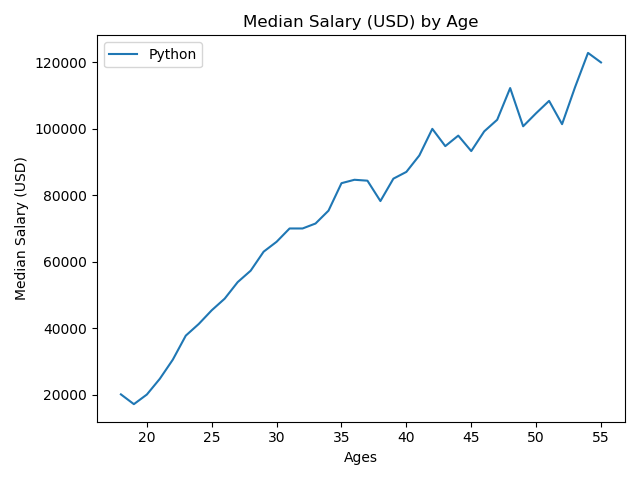
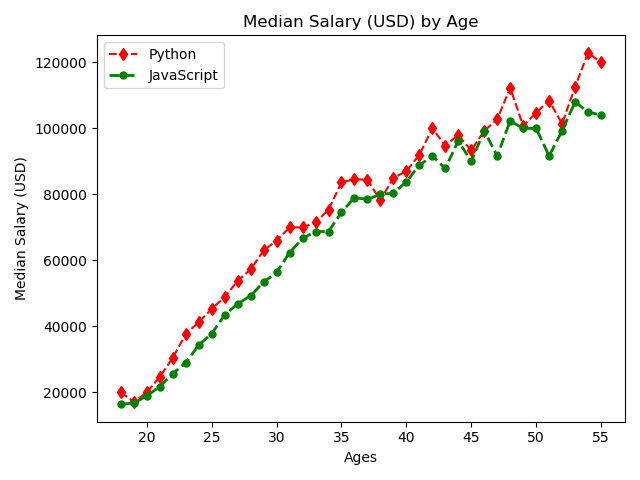
format string and standard plot used

diff --git a/matplotlib_pg.py b/matplotlib_pg.py
@@ -4,12 +4,22 @@ def main():
     # plt.xkcd()
 
     ages_x = [18, 19, 20, 21, 22, 23, 24, 25, 26, 27, 28, 29, 30, 31, 32, 33, 34, 35,
-            36, 37, 38, 39, 40, 41, 42, 43, 44, 45, 46, 47, 48, 49, 50, 51, 52, 53, 54, 55]
+                36, 37, 38, 39, 40, 41, 42, 43, 44, 45, 46, 47, 48, 49, 50, 51, 52, 53, 54, 55]
 
-    py_dev_y = [20046, 17100, 20000, 24744, 30500, 37732, 41247, 45372, 48876, 53850, 57287, 63016, 65998, 70003, 70000, 71496, 75370, 83640, 84666,
-                84392, 78254, 85000, 87038, 91991, 100000, 94796, 97962, 93302, 99240, 102736, 112285, 100771, 104708, 108423, 101407, 112542, 122870, 120000]
+    py_dev_y = [20046, 17100, 20000, 24744, 30500, 37732, 41247, 45372, 48876, 53850, 57287, 63016, 
+                65998, 70003, 70000, 71496, 75370, 83640, 84666,
+                84392, 78254, 85000, 87038, 91991, 100000, 94796, 97962, 93302, 99240, 102736, 112285, 
+                100771, 104708, 108423, 101407, 112542, 122870, 120000]
+    
+    js_dev_y = [16446, 16791, 18942, 21780, 25704, 29000, 34372, 37810, 43515, 46823, 49293, 53437, 
+                56373, 62375, 66674, 68745, 68746, 74583, 79000,
+                78508, 79996, 80403, 83820, 88833, 91660, 87892, 96243, 90000, 99313, 91660, 102264, 100000, 
+                100000, 91660, 99240, 108000, 105000, 104000]
 
-    plt.plot(ages_x, py_dev_y, label='Python')
+    plt.plot(ages_x, py_dev_y,'d--r', label='Python')#format string used '[marker][line][color]'
+
+    plt.plot(ages_x, js_dev_y, label='JavaScript', color='green', marker='o', linestyle='dashed',
+        linewidth=2, markersize=5)
 
     plt.xlabel('Ages')
     plt.ylabel('Median Salary (USD)')
